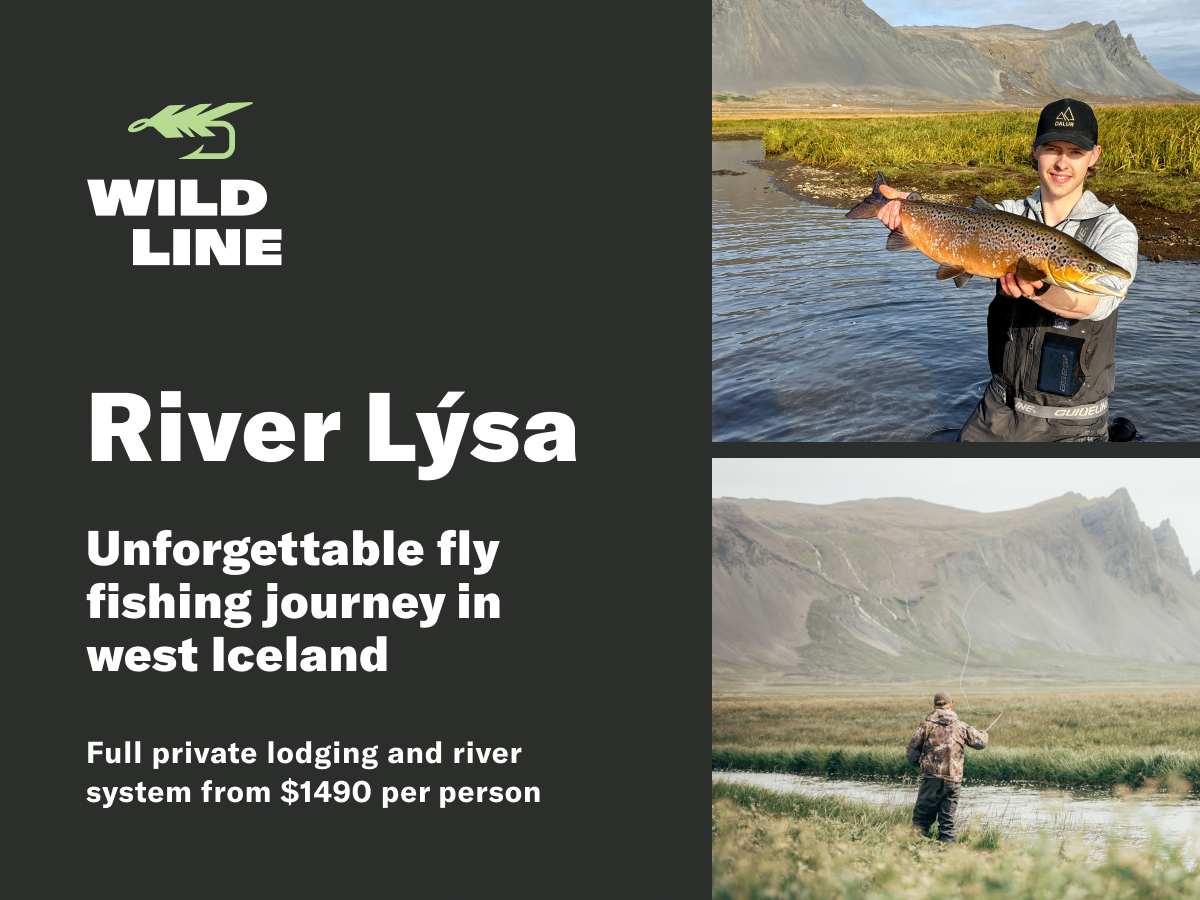
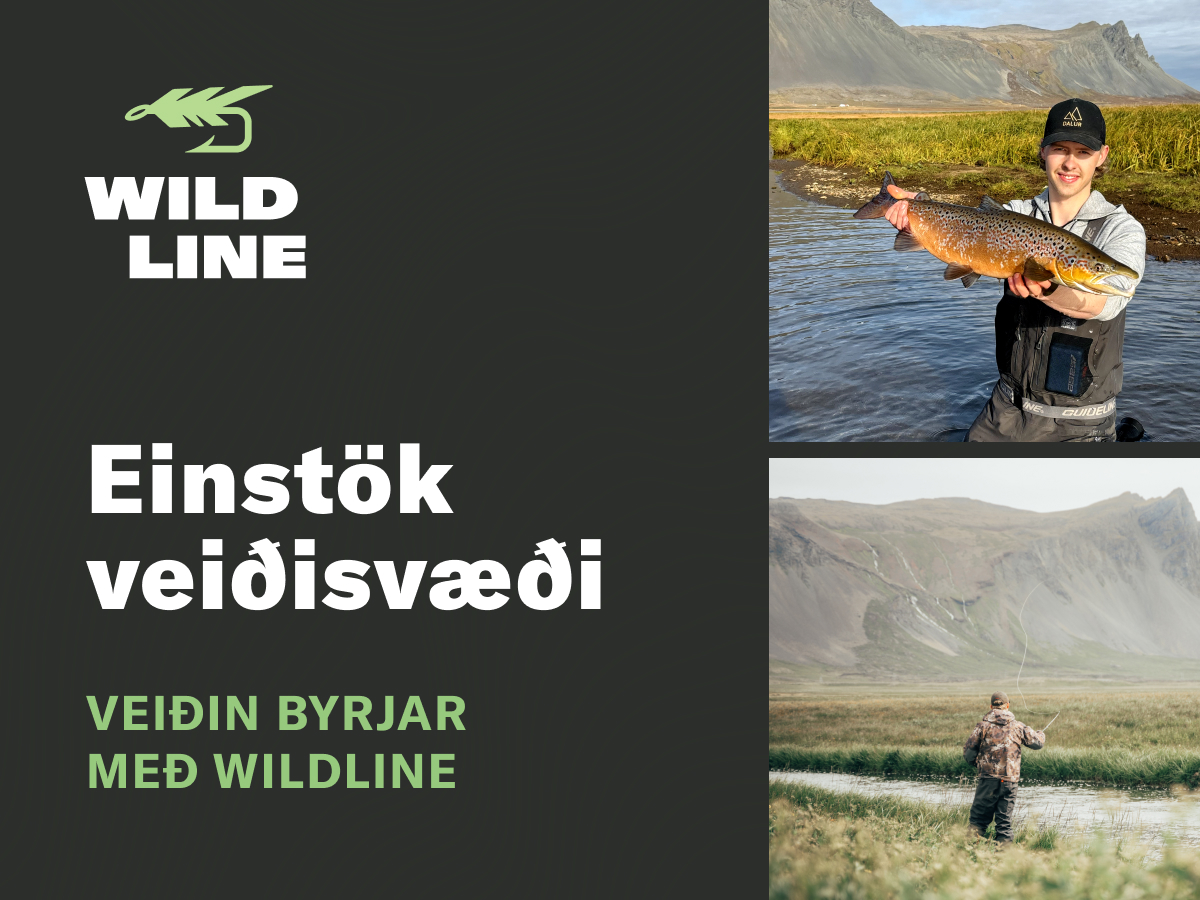
0

diff --git a/thank-you.html b/thank-you.html
@@ -19,13 +19,13 @@
   {
     "@context": "https://schema.org",
     "@type": "Organization",
-    "image": "https://www.wildline.fishing/guide-1.jpg",
-    "url": "https://www.wildline.fishing",
-    "logo": "https://www.wildline.fishing/google-logo.png",
-    "name": "Wildline Fly Fishing",
-    "description": "Discover Iceland’s hidden fly-fishing gems.",
-    "email": "contact@wildline.fishing",
-    "telephone": "+3546945159",
+    "image": "https://www.wildline.fishing/booking.jpg.jpg",
+    "url": "https://www.wildline.is",
+    "logo": "https://www.wildline.is/google-logo.png",
+    "name": "Wildline veiðileyfi",
+    "description": "Sanngjörn og góð veiðileyfi.",
+    "email": "contact@wildline.is",
+    "telephone": "+3547734759",
     "address": {
       "@type": "PostalAddress",
       "streetAddress": "Sunnusmári 1",
@@ -39,7 +39,7 @@
   <meta charset="UTF-8"> 
   <link rel="manifest" href="/manifest.json">
   <link rel="stylesheet" href="style.css">
-  <link rel="canonical" href="https://wildline.fishing" />
+  <link rel="canonical" href="https://wildline.is" />
   <html lang="en">
   <link rel="stylesheet" href="glightbox.min.css">
   <meta name="viewport" content="width=device-width, initial-scale=1">
@@ -57,7 +57,7 @@
   <link rel="icon" type="image/png" sizes="32x32" href="favicon-32x32.png">
   <link rel="icon" type="image/png" sizes="16x16" href="favicon-16x16.png">
 
-  <title>Fly Fishing in Iceland – Wildline Guides</title>
+  <title>Einstök veiðisvæði – Wildline veiðileyfi</title>
 
   <!-- Add CSS -->
   <link rel="stylesheet" href="calendar.css">
@@ -65,12 +65,10 @@
   <!-- Add JS -->
   <script src="flatpickr.js"></script>
 
-  <meta property="og:title" content="Fly fishing in Iceland — Wildline Guides">
-  <meta property="og:description" content="Unforgettable fly
-fishing journey in west Iceland. Full private lodging and river
-system from $1490 per person.">
-<meta name="description" content="Unforgettable fly fishing journey in west Iceland. Full private lodging and river system from $1490 per person.">
-  <meta property="og:image" content="https://wildline.fishing/img/cover.jpg">
+  <meta property="og:title" content="Einstök veiðisvæði – Wildline veiðileyfi">
+  <meta property="og:description" content="Wildline bíður upp á frábær veiðileyfi fyrir fluguveiðimenn.">
+<meta name="description" content="Wildline bíður upp á frábær veiðileyfi fyrir fluguveiðimenn.">
+  <meta property="og:image" content="https://wildline.is/img/cover.jpg">
   <meta property="og:type" content="website">
 
   <meta name="format-detection" content="telephone=no">
@@ -180,6 +178,18 @@ system from $1490 per person.">
           <!-- instruction start -->
 
           <div class ="instruction-grid thank-you-instruction-grid">
+
+            <div class="grid-anglingiq grid-stay grid-register">
+                <div class="grid-left-info">
+                    <div class="grid-left-info-text">
+                        <h3 class ="h3-register">Mundu eftir <br> veiðiskráningu!</h3>
+                        <p class ="max-5">Skylt er að skrá allan fisk úr Vatnasvæði Lýsu, hægt er að skrá fisk á AnglingIQ, í veiðibók við Lýsuvatn eða með því að senda tölur á contact@wildline.is</p>
+                    </div>
+
+                </div>
+                <img class = "img-4" src="img/register.jpg">
+
+            </div>
 
             <h2>leiðbeiningar fyrir vatnasvæði lýsu</h2>
 

diff --git a/index.html b/index.html
@@ -19,13 +19,13 @@
   {
     "@context": "https://schema.org",
     "@type": "Organization",
-    "image": "https://www.wildline.fishing/guide-1.jpg",
-    "url": "https://www.wildline.fishing",
-    "logo": "https://www.wildline.fishing/google-logo.png",
-    "name": "Wildline Fly Fishing",
-    "description": "Discover Iceland’s hidden fly-fishing gems.",
-    "email": "contact@wildline.fishing",
-    "telephone": "+3546945159",
+    "image": "https://www.wildline.fishing/booking.jpg.jpg",
+    "url": "https://www.wildline.is",
+    "logo": "https://www.wildline.is/google-logo.png",
+    "name": "Wildline veiðileyfi",
+    "description": "Sanngjörn og góð veiðileyfi.",
+    "email": "contact@wildline.is",
+    "telephone": "+3547734759",
     "address": {
       "@type": "PostalAddress",
       "streetAddress": "Sunnusmári 1",
@@ -39,7 +39,7 @@
   <meta charset="UTF-8"> 
   <link rel="manifest" href="/manifest.json">
   <link rel="stylesheet" href="style.css">
-  <link rel="canonical" href="https://wildline.fishing" />
+  <link rel="canonical" href="https://wildline.is" />
   <html lang="en">
   <link rel="stylesheet" href="glightbox.min.css">
   <meta name="viewport" content="width=device-width, initial-scale=1">
@@ -57,7 +57,7 @@
   <link rel="icon" type="image/png" sizes="32x32" href="favicon-32x32.png">
   <link rel="icon" type="image/png" sizes="16x16" href="favicon-16x16.png">
 
-  <title>Fly Fishing in Iceland – Wildline Guides</title>
+  <title>Einstök veiðisvæði – Wildline veiðileyfi</title>
 
   <!-- Add CSS -->
   <link rel="stylesheet" href="calendar.css">
@@ -65,12 +65,10 @@
   <!-- Add JS -->
   <script src="flatpickr.js"></script>
 
-  <meta property="og:title" content="Fly fishing in Iceland — Wildline Guides">
-  <meta property="og:description" content="Unforgettable fly
-fishing journey in west Iceland. Full private lodging and river
-system from $1490 per person.">
-<meta name="description" content="Unforgettable fly fishing journey in west Iceland. Full private lodging and river system from $1490 per person.">
-  <meta property="og:image" content="https://wildline.fishing/img/cover.jpg">
+  <meta property="og:title" content="Einstök veiðisvæði – Wildline veiðileyfi">
+  <meta property="og:description" content="Wildline bíður upp á frábær veiðileyfi fyrir fluguveiðimenn.">
+<meta name="description" content="Wildline bíður upp á frábær veiðileyfi fyrir fluguveiðimenn.">
+  <meta property="og:image" content="https://wildline.is/img/cover.jpg">
   <meta property="og:type" content="website">
 
   <meta name="format-detection" content="telephone=no">
@@ -160,7 +158,7 @@ system from $1490 per person.">
         </div>
       </div>
       
-      <img src="img/hero-back.webp" loading="eager" alt="Logo press to go to the front page">
+      <img src="img/hero-back.jpg" loading="eager" alt="Logo press to go to the front page">
 
       </div>
 
@@ -329,7 +327,7 @@ system from $1490 per person.">
 
           <div class ="instruction-grid">
 
-            <h2>Veiðileiðbeiningar<br>& skráning afla</h2>
+            <h2>Veiðileiðbeiningar</h2>
 
               <div class="grid-container">
 
@@ -870,7 +868,7 @@ system from $1490 per person.">
 
              <p></p>
 
-             <img src="img/hero-back.webp" loading="eager" alt="Background waves">
+             <img src="img/hero-back.jpg" loading="eager" alt="Background waves">
            </div>
 
 

diff --git a/style.css b/style.css
@@ -1660,7 +1660,7 @@ body{
     justify-content: space-between;
     width: 50%;
     height: 100%;
-    padding: 24px 22px;
+    padding: 24px 24px;
 }
 
 .grid-fly:hover .plus-expand{
@@ -1706,6 +1706,31 @@ body{
 .grid-stay{
     margin-top: 0px !important;
     height: auto !important;
+}
+
+.grid-register{
+    flex-direction: row-reverse;
+    margin-bottom: 56px;
+}
+
+.grid-register h3{
+    font-size: 28px;
+    line-height: 1.15 !important;
+    margin-top: 24px !important;
+}
+
+.h3-register{
+    font-size: 28px !important;
+}
+
+.max-5{
+    color: #525252 !important;
+    font-size: 16px !important;
+    line-height: 1.3 !important;
+    letter-spacing: 2% !important;
+    max-width: 340px !important;
+    font-family: "Bold" !important;
+    margin-top: 4px;
 }
 
 .grid-stay h3{
@@ -1771,6 +1796,7 @@ body{
     bottom: 0;
     left: 0;
     object-fit: fill;
+    margin-left: -10vw;
 
 }
 
@@ -3443,6 +3469,10 @@ textarea {
         padding: 5vw 5vw;
     }
 
+    .hero-left img, .hero-left-back img {
+        width: 70vw;
+    }
+
 
 
 
@@ -3450,6 +3480,15 @@ textarea {
 }
 
 @media only screen and (max-width: 910px){
+
+    .h3-register{
+        font-size: 24px !important;
+    }
+
+    .img-4{
+        padding: 8px !important;
+        height: 200px !important;
+    }
 
     .hero-slim{
         flex-direction: column-reverse !important;
@@ -4926,6 +4965,7 @@ textarea {
 
     .hero-left img, .hero-left-back img {
         width: 100vw;
+        height: 100%;
         background-size: 200%;
     }
 
